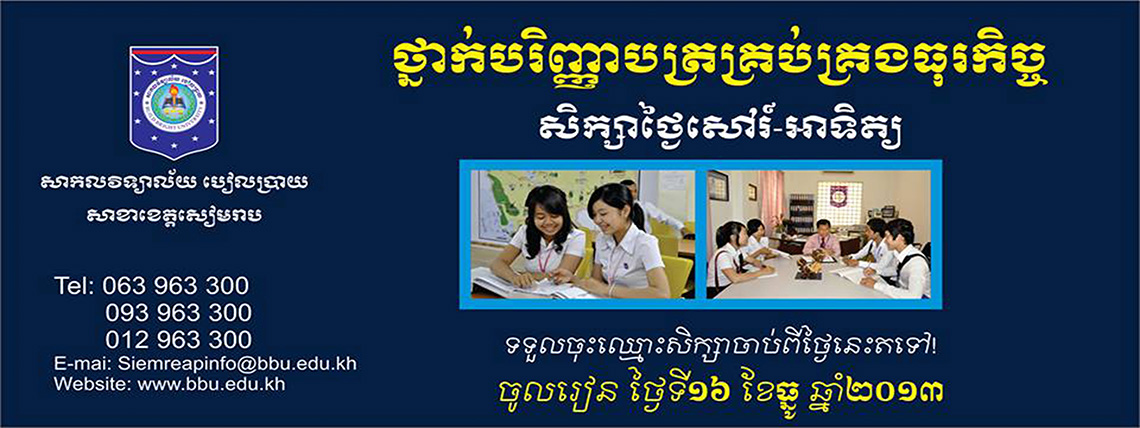
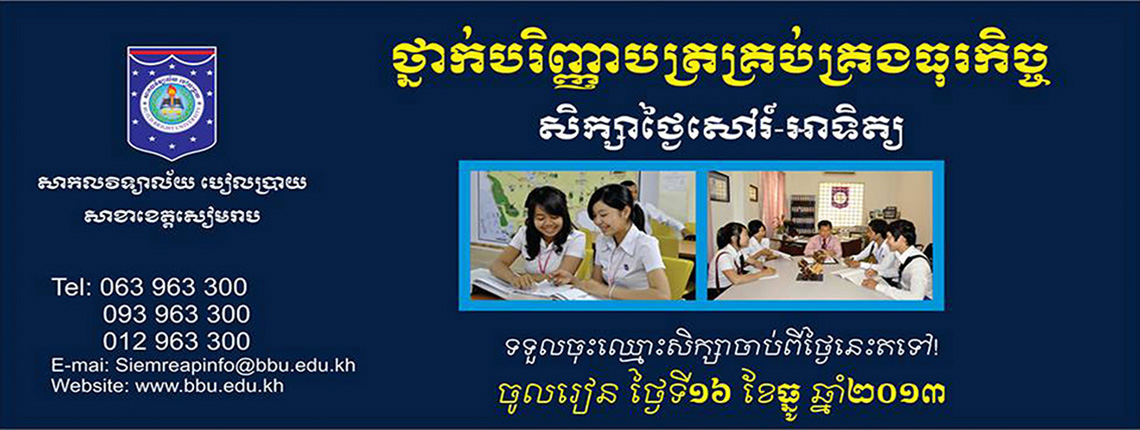
Chnage Image size 1140px x 430px

diff --git a/application/views/home.html b/application/views/home.html
@@ -10,7 +10,8 @@
                     <li data-target="#ads" data-slide-to="2"></li>
                 </ol>
 
-                <!-- Wrapper for slides -->
+                <!-- Wrapper for slides --> 
+                <!-- image size 1140px x 430px -->
                 <div class="carousel-inner">
                     <div class="item active">
                         <img src="/assets/img/slide/baner.jpg" alt="">

diff --git a/assets/css/common.css b/assets/css/common.css
@@ -118,7 +118,6 @@ html, body {
 
 #banner img {
 	width: 100%;
-	height: 420px;
 }
 
 #footer {
